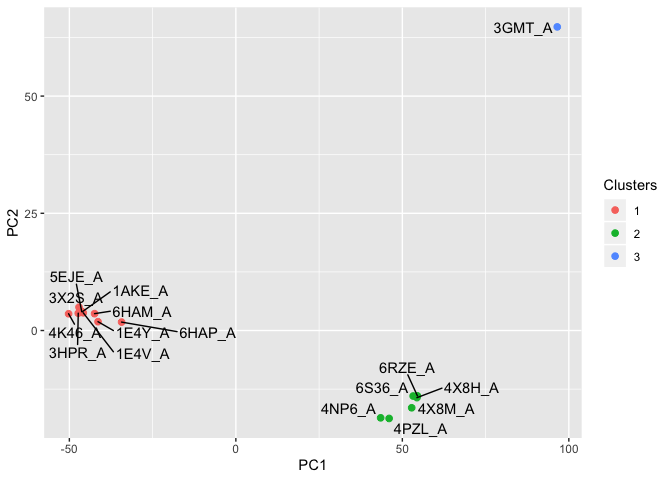
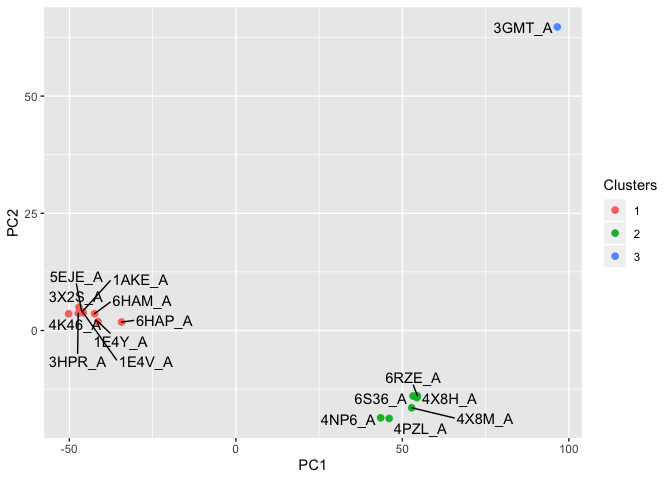
11md

Changed region(s): [[0.0625, 0.5625, 0.3438, 0.7812], [0.4688, 0.75, 0.75, 0.9062]]

diff --git a/BioinformaticsWinter2020Class11/class11.md b/BioinformaticsWinter2020Class11/class11.md
@@ -1,0 +1,322 @@
+Structural Bioinformatics (pt.1)
+================
+
+## PDB Statistics
+
+``` r
+stats <- read.csv("Data Export Summary.csv", row.names = 1)
+stats #when you visualize it from the environment tab, you might want to rename the columns
+```
+
+    ##                     Proteins Nucleic.Acids Protein.NA.Complex Other  Total
+    ## X-Ray                 133756          2086               6884     8 142734
+    ## NMR                    11308          1317                265     8  12898
+    ## Electron Microscopy     3241            35               1095     0   4371
+    ## Other                    284             4                  6    13    307
+    ## Multi Method             146             5                  2     1    154
+
+Q. What percentage of structures are solved by X-Ray and Electron
+Microscopy?
+
+``` r
+ans <- round((stats$Total / sum(stats$Total))*100, 2) # gives you the calculation for every row
+names(ans) <- rownames(stats)
+ans
+```
+
+    ##               X-Ray                 NMR Electron Microscopy               Other 
+    ##               88.95                8.04                2.72                0.19 
+    ##        Multi Method 
+    ##                0.10
+
+Q. What proportion of structures are protein?
+
+``` r
+prop <- round(sum(stats$Proteins/sum(stats$Total)), 2)
+prop
+```
+
+    ## [1] 0.93
+
+## Section 2: Using bio3d package to analyze protein structure data
+
+Q. Type HIV in the PDB website search box on the home page and determine
+how many HIV-1 protease structures are in the current PDB?
+
+Use the bio3d package from CRAN.
+
+``` r
+library(bio3d)
+
+pdb <- read.pdb("1hsg")
+```
+
+    ##   Note: Accessing on-line PDB file
+
+``` r
+pdb
+```
+
+    ## 
+    ##  Call:  read.pdb(file = "1hsg")
+    ## 
+    ##    Total Models#: 1
+    ##      Total Atoms#: 1686,  XYZs#: 5058  Chains#: 2  (values: A B)
+    ## 
+    ##      Protein Atoms#: 1514  (residues/Calpha atoms#: 198)
+    ##      Nucleic acid Atoms#: 0  (residues/phosphate atoms#: 0)
+    ## 
+    ##      Non-protein/nucleic Atoms#: 172  (residues: 128)
+    ##      Non-protein/nucleic resid values: [ HOH (127), MK1 (1) ]
+    ## 
+    ##    Protein sequence:
+    ##       PQITLWQRPLVTIKIGGQLKEALLDTGADDTVLEEMSLPGRWKPKMIGGIGGFIKVRQYD
+    ##       QILIEICGHKAIGTVLVGPTPVNIIGRNLLTQIGCTLNFPQITLWQRPLVTIKIGGQLKE
+    ##       ALLDTGADDTVLEEMSLPGRWKPKMIGGIGGFIKVRQYDQILIEICGHKAIGTVLVGPTP
+    ##       VNIIGRNLLTQIGCTLNF
+    ## 
+    ## + attr: atom, xyz, seqres, helix, sheet,
+    ##         calpha, remark, call
+
+Adenylate kinase structures from the PDB for analysis
+
+``` r
+library(bio3d)
+aa <- get.seq("1ake_A")
+```
+
+    ## Warning in get.seq("1ake_A"): Removing existing file: seqs.fasta
+
+    ## Fetching... Please wait. Done.
+
+``` r
+aa
+```
+
+    ##              1        .         .         .         .         .         60 
+    ## pdb|1AKE|A   MRIILLGAPGAGKGTQAQFIMEKYGIPQISTGDMLRAAVKSGSELGKQAKDIMDAGKLVT
+    ##              1        .         .         .         .         .         60 
+    ## 
+    ##             61        .         .         .         .         .         120 
+    ## pdb|1AKE|A   DELVIALVKERIAQEDCRNGFLLDGFPRTIPQADAMKEAGINVDYVLEFDVPDELIVDRI
+    ##             61        .         .         .         .         .         120 
+    ## 
+    ##            121        .         .         .         .         .         180 
+    ## pdb|1AKE|A   VGRRVHAPSGRVYHVKFNPPKVEGKDDVTGEELTTRKDDQEETVRKRLVEYHQMTAPLIG
+    ##            121        .         .         .         .         .         180 
+    ## 
+    ##            181        .         .         .   214 
+    ## pdb|1AKE|A   YYSKEAEAGNTKYAKVDGTKPVAEVRADLEKILG
+    ##            181        .         .         .   214 
+    ## 
+    ## Call:
+    ##   read.fasta(file = outfile)
+    ## 
+    ## Class:
+    ##   fasta
+    ## 
+    ## Alignment dimensions:
+    ##   1 sequence rows; 214 position columns (214 non-gap, 0 gap) 
+    ## 
+    ## + attr: id, ali, call
+
+``` r
+hits <- NULL
+hits$pdb.id <- c('1AKE_A','4X8M_A','6S36_A','6RZE_A','4X8H_A',
+                 '3HPR_A','1E4V_A','5EJE_A','1E4Y_A','3X2S_A',
+                 '6HAP_A','6HAM_A','4K46_A','4NP6_A','3GMT_A',
+                 '4PZL_A')
+```
+
+Download and parse these structures
+
+``` r
+library(bio3d)
+#Download related PDB files
+files <- get.pdb(hits$pdb.id, path = "pdbs", split = TRUE, gzip = TRUE)
+```
+
+    ## Warning in get.pdb(hits$pdb.id, path = "pdbs", split = TRUE, gzip = TRUE): pdbs/
+    ## 1AKE.pdb.gz exists. Skipping download
+
+    ## Warning in get.pdb(hits$pdb.id, path = "pdbs", split = TRUE, gzip = TRUE): pdbs/
+    ## 4X8M.pdb.gz exists. Skipping download
+
+    ## Warning in get.pdb(hits$pdb.id, path = "pdbs", split = TRUE, gzip = TRUE): pdbs/
+    ## 6S36.pdb.gz exists. Skipping download
+
+    ## Warning in get.pdb(hits$pdb.id, path = "pdbs", split = TRUE, gzip = TRUE): pdbs/
+    ## 6RZE.pdb.gz exists. Skipping download
+
+    ## Warning in get.pdb(hits$pdb.id, path = "pdbs", split = TRUE, gzip = TRUE): pdbs/
+    ## 4X8H.pdb.gz exists. Skipping download
+
+    ## Warning in get.pdb(hits$pdb.id, path = "pdbs", split = TRUE, gzip = TRUE): pdbs/
+    ## 3HPR.pdb.gz exists. Skipping download
+
+    ## Warning in get.pdb(hits$pdb.id, path = "pdbs", split = TRUE, gzip = TRUE): pdbs/
+    ## 1E4V.pdb.gz exists. Skipping download
+
+    ## Warning in get.pdb(hits$pdb.id, path = "pdbs", split = TRUE, gzip = TRUE): pdbs/
+    ## 5EJE.pdb.gz exists. Skipping download
+
+    ## Warning in get.pdb(hits$pdb.id, path = "pdbs", split = TRUE, gzip = TRUE): pdbs/
+    ## 1E4Y.pdb.gz exists. Skipping download
+
+    ## Warning in get.pdb(hits$pdb.id, path = "pdbs", split = TRUE, gzip = TRUE): pdbs/
+    ## 3X2S.pdb.gz exists. Skipping download
+
+    ## Warning in get.pdb(hits$pdb.id, path = "pdbs", split = TRUE, gzip = TRUE): pdbs/
+    ## 6HAP.pdb.gz exists. Skipping download
+
+    ## Warning in get.pdb(hits$pdb.id, path = "pdbs", split = TRUE, gzip = TRUE): pdbs/
+    ## 6HAM.pdb.gz exists. Skipping download
+
+    ## Warning in get.pdb(hits$pdb.id, path = "pdbs", split = TRUE, gzip = TRUE): pdbs/
+    ## 4K46.pdb.gz exists. Skipping download
+
+    ## Warning in get.pdb(hits$pdb.id, path = "pdbs", split = TRUE, gzip = TRUE): pdbs/
+    ## 4NP6.pdb.gz exists. Skipping download
+
+    ## Warning in get.pdb(hits$pdb.id, path = "pdbs", split = TRUE, gzip = TRUE): pdbs/
+    ## 3GMT.pdb.gz exists. Skipping download
+
+    ## Warning in get.pdb(hits$pdb.id, path = "pdbs", split = TRUE, gzip = TRUE): pdbs/
+    ## 4PZL.pdb.gz exists. Skipping download
+
+    ##   |                                                                              |                                                                      |   0%  |                                                                              |====                                                                  |   6%  |                                                                              |=========                                                             |  12%  |                                                                              |=============                                                         |  19%  |                                                                              |==================                                                    |  25%  |                                                                              |======================                                                |  31%  |                                                                              |==========================                                            |  38%  |                                                                              |===============================                                       |  44%  |                                                                              |===================================                                   |  50%  |                                                                              |=======================================                               |  56%  |                                                                              |============================================                          |  62%  |                                                                              |================================================                      |  69%  |                                                                              |====================================================                  |  75%  |                                                                              |=========================================================             |  81%  |                                                                              |=============================================================         |  88%  |                                                                              |==================================================================    |  94%  |                                                                              |======================================================================| 100%
+
+Align and superimpose structures
+
+``` r
+# Align related PDBs
+pdbs <- pdbaln(files, fit = TRUE, exefile = "msa")
+```
+
+    ## Reading PDB files:
+    ## pdbs/split_chain/1AKE_A.pdb
+    ## pdbs/split_chain/4X8M_A.pdb
+    ## pdbs/split_chain/6S36_A.pdb
+    ## pdbs/split_chain/6RZE_A.pdb
+    ## pdbs/split_chain/4X8H_A.pdb
+    ## pdbs/split_chain/3HPR_A.pdb
+    ## pdbs/split_chain/1E4V_A.pdb
+    ## pdbs/split_chain/5EJE_A.pdb
+    ## pdbs/split_chain/1E4Y_A.pdb
+    ## pdbs/split_chain/3X2S_A.pdb
+    ## pdbs/split_chain/6HAP_A.pdb
+    ## pdbs/split_chain/6HAM_A.pdb
+    ## pdbs/split_chain/4K46_A.pdb
+    ## pdbs/split_chain/4NP6_A.pdb
+    ## pdbs/split_chain/3GMT_A.pdb
+    ## pdbs/split_chain/4PZL_A.pdb
+    ##    PDB has ALT records, taking A only, rm.alt=TRUE
+    ## ..   PDB has ALT records, taking A only, rm.alt=TRUE
+    ## .   PDB has ALT records, taking A only, rm.alt=TRUE
+    ## ..   PDB has ALT records, taking A only, rm.alt=TRUE
+    ## ..   PDB has ALT records, taking A only, rm.alt=TRUE
+    ## ....   PDB has ALT records, taking A only, rm.alt=TRUE
+    ## .   PDB has ALT records, taking A only, rm.alt=TRUE
+    ## ....
+    ## 
+    ## Extracting sequences
+    ## 
+    ## pdb/seq: 1   name: pdbs/split_chain/1AKE_A.pdb 
+    ##    PDB has ALT records, taking A only, rm.alt=TRUE
+    ## pdb/seq: 2   name: pdbs/split_chain/4X8M_A.pdb 
+    ## pdb/seq: 3   name: pdbs/split_chain/6S36_A.pdb 
+    ##    PDB has ALT records, taking A only, rm.alt=TRUE
+    ## pdb/seq: 4   name: pdbs/split_chain/6RZE_A.pdb 
+    ##    PDB has ALT records, taking A only, rm.alt=TRUE
+    ## pdb/seq: 5   name: pdbs/split_chain/4X8H_A.pdb 
+    ## pdb/seq: 6   name: pdbs/split_chain/3HPR_A.pdb 
+    ##    PDB has ALT records, taking A only, rm.alt=TRUE
+    ## pdb/seq: 7   name: pdbs/split_chain/1E4V_A.pdb 
+    ## pdb/seq: 8   name: pdbs/split_chain/5EJE_A.pdb 
+    ##    PDB has ALT records, taking A only, rm.alt=TRUE
+    ## pdb/seq: 9   name: pdbs/split_chain/1E4Y_A.pdb 
+    ## pdb/seq: 10   name: pdbs/split_chain/3X2S_A.pdb 
+    ## pdb/seq: 11   name: pdbs/split_chain/6HAP_A.pdb 
+    ## pdb/seq: 12   name: pdbs/split_chain/6HAM_A.pdb 
+    ##    PDB has ALT records, taking A only, rm.alt=TRUE
+    ## pdb/seq: 13   name: pdbs/split_chain/4K46_A.pdb 
+    ##    PDB has ALT records, taking A only, rm.alt=TRUE
+    ## pdb/seq: 14   name: pdbs/split_chain/4NP6_A.pdb 
+    ## pdb/seq: 15   name: pdbs/split_chain/3GMT_A.pdb 
+    ## pdb/seq: 16   name: pdbs/split_chain/4PZL_A.pdb
+
+``` r
+# Vector containing PDB codes for figure axis
+ids <- basename.pdb(pdbs$id)
+
+# Draw schematic alignment
+plot(pdbs, labels=ids)
+```
+
+![](class11_files/figure-gfm/unnamed-chunk-9-1.png)<!-- -->
+
+``` r
+library(bio3d.view)
+library(rgl)
+view(pdbs) 
+
+# rglwidget(elementId=" tmp") cant make a markdown file with this because it procudes an html output
+```
+
+``` r
+anno <- pdb.annotate(ids)
+```
+
+    ## Warning in pdb.annotate(ids): ids should be standard 4 character PDB-IDs: trying
+    ## first 4 characters...
+
+``` r
+unique(anno$source)
+```
+
+    ## [1] "Escherichia coli"          "Photobacterium profundum" 
+    ## [3] "Vibrio cholerae"           "Burkholderia pseudomallei"
+    ## [5] "Francisella tularensis"
+
+``` r
+pc.xray <- pca(pdbs)
+plot(pc.xray)
+```
+
+![](class11_files/figure-gfm/unnamed-chunk-12-1.png)<!-- -->
+
+``` r
+# Calculate RMSD
+rd <- rmsd(pdbs)
+```
+
+    ## Warning in rmsd(pdbs): No indices provided, using the 204 non NA positions
+
+``` r
+# Structure-based clustering
+hc.rd <- hclust(dist(rd))
+grps.rd <- cutree(hc.rd, k=3)
+
+plot(pc.xray, 1:2, col="grey50", bg=grps.rd, pch=21, cex=1)
+```
+
+![](class11_files/figure-gfm/unnamed-chunk-13-1.png)<!-- -->
+
+``` r
+#Plotting results with ggplot2
+library(ggplot2)
+library(ggrepel)
+
+df <- data.frame(x=pc.xray$z[,1], y=pc.xray$z[,2])
+col <- as.factor(grps.rd)
+
+p <- ggplot(df, aes(x, y)) +
+ geom_point(aes(col=col), size=2) +
+ xlab("PC1") +
+ ylab("PC2") +
+ scale_color_discrete(name="Clusters") +
+ geom_text_repel(aes(label=ids))
+p
+```
+
+![](class11_files/figure-gfm/unnamed-chunk-14-1.png)<!-- -->
